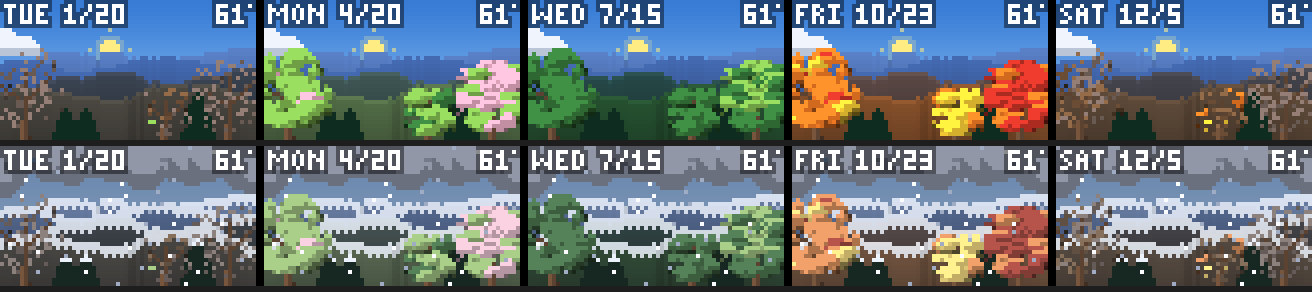
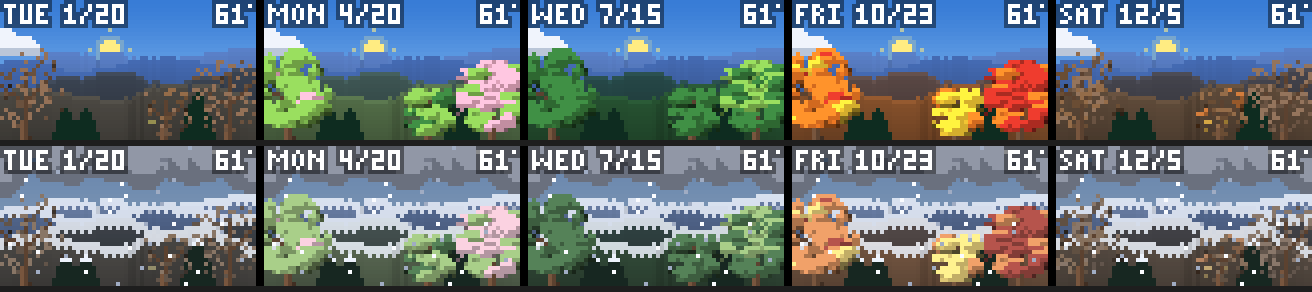
Fade surviving winter leaves to brown

diff --git a/src/matrix_display/scene/mountains.py b/src/matrix_display/scene/mountains.py
@@ -223,6 +223,8 @@ def terrain(eq: int, cond: Condition | None, season: int,
             col = tip if snowing and r < 2 else pine
             draw.line([(x - half, y), (x + half, y)], fill=col + (255,))
         draw.point([(x, base + 1)], fill=scale(pine, 0.7) + (255,))
+    dull = tone(n, _TREES["brown"], 0.95)
+    mute = clamp(leaf_loss / 0.85) * 0.85
     for k, (bx, cw, ch, cb, v) in enumerate(_BIG_TREES):       # foreground trees, drawn last
         leaves, branches = _big_tree(cw, ch, 100 + k, v)
         ox, oy = bx - cw // 2, cb - ch
@@ -235,7 +237,7 @@ def terrain(eq: int, cond: Condition | None, season: int,
         for (dx, dy), (c, pick) in leaves.items():
             if ((dx * 73856093 ^ dy * 19349663 ^ k * 83492791) % 100) / 100 < leaf_loss:
                 continue                                        # bare branches show through
-            leaf = tone(n, _foliage(pick, leaves_pal), 0.95)
+            leaf = lerp(tone(n, _foliage(pick, leaves_pal), 0.95), dull, mute)   # late leaves fade to brown
             shade = {"h": 1.4, "m": 1.0, "d": 0.6, "x": 0.4, "s": 1.14}[c]
             draw.point([(ox + dx, oy + dy)], fill=scale(leaf, shade) + (255,))
     return img.convert("RGB"), img.getchannel("A")
